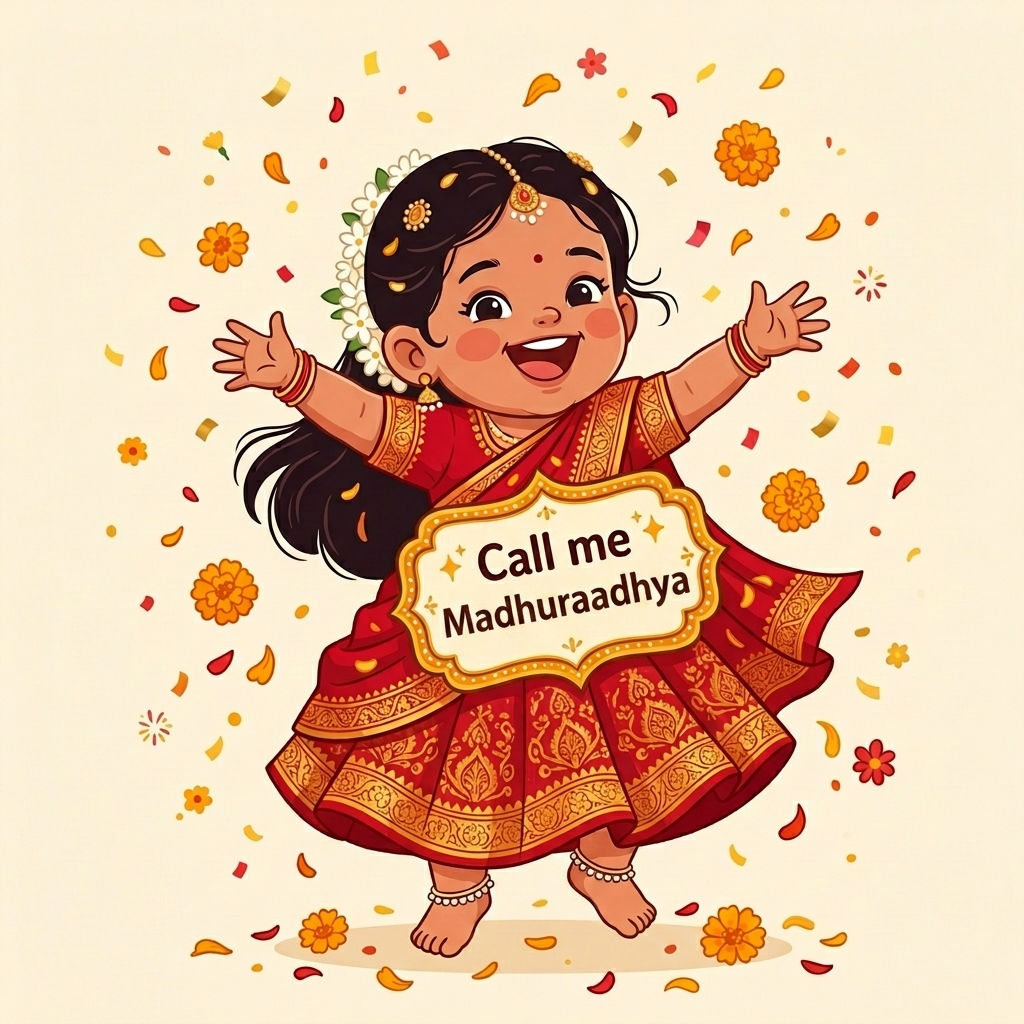
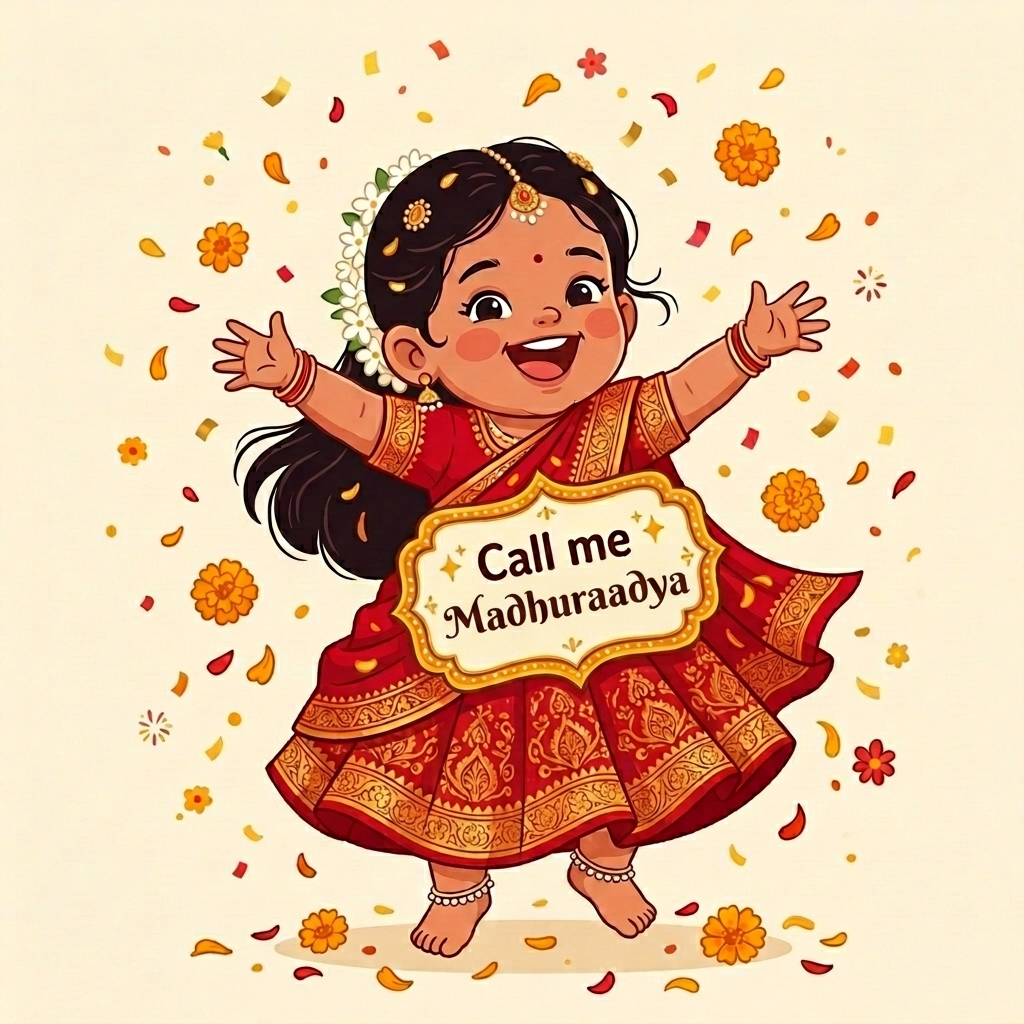
clean

diff --git a/config.js b/config.js
@@ -21,8 +21,8 @@ window.BabyRevealConfig = {
     eventAddress: "AVOPA Seva Sadan, Postal Colony, Kurnool.",
 
     // Baby Name Details
-    babyName: "Venkata Madhuraadhya",
-    babyNameTelugu: "వెంకట మధురాధ్య",
+    babyName: "Venkata Madhuraadya",
+    babyNameTelugu: "వెంకట మధురాద్య",
     babyGender: "Girl",
     nameMeaning: "Our Sweetest Mah Durga.",
     nameMeaningTelugu: "మా ముద్దుల దుర్గా దేవి",
